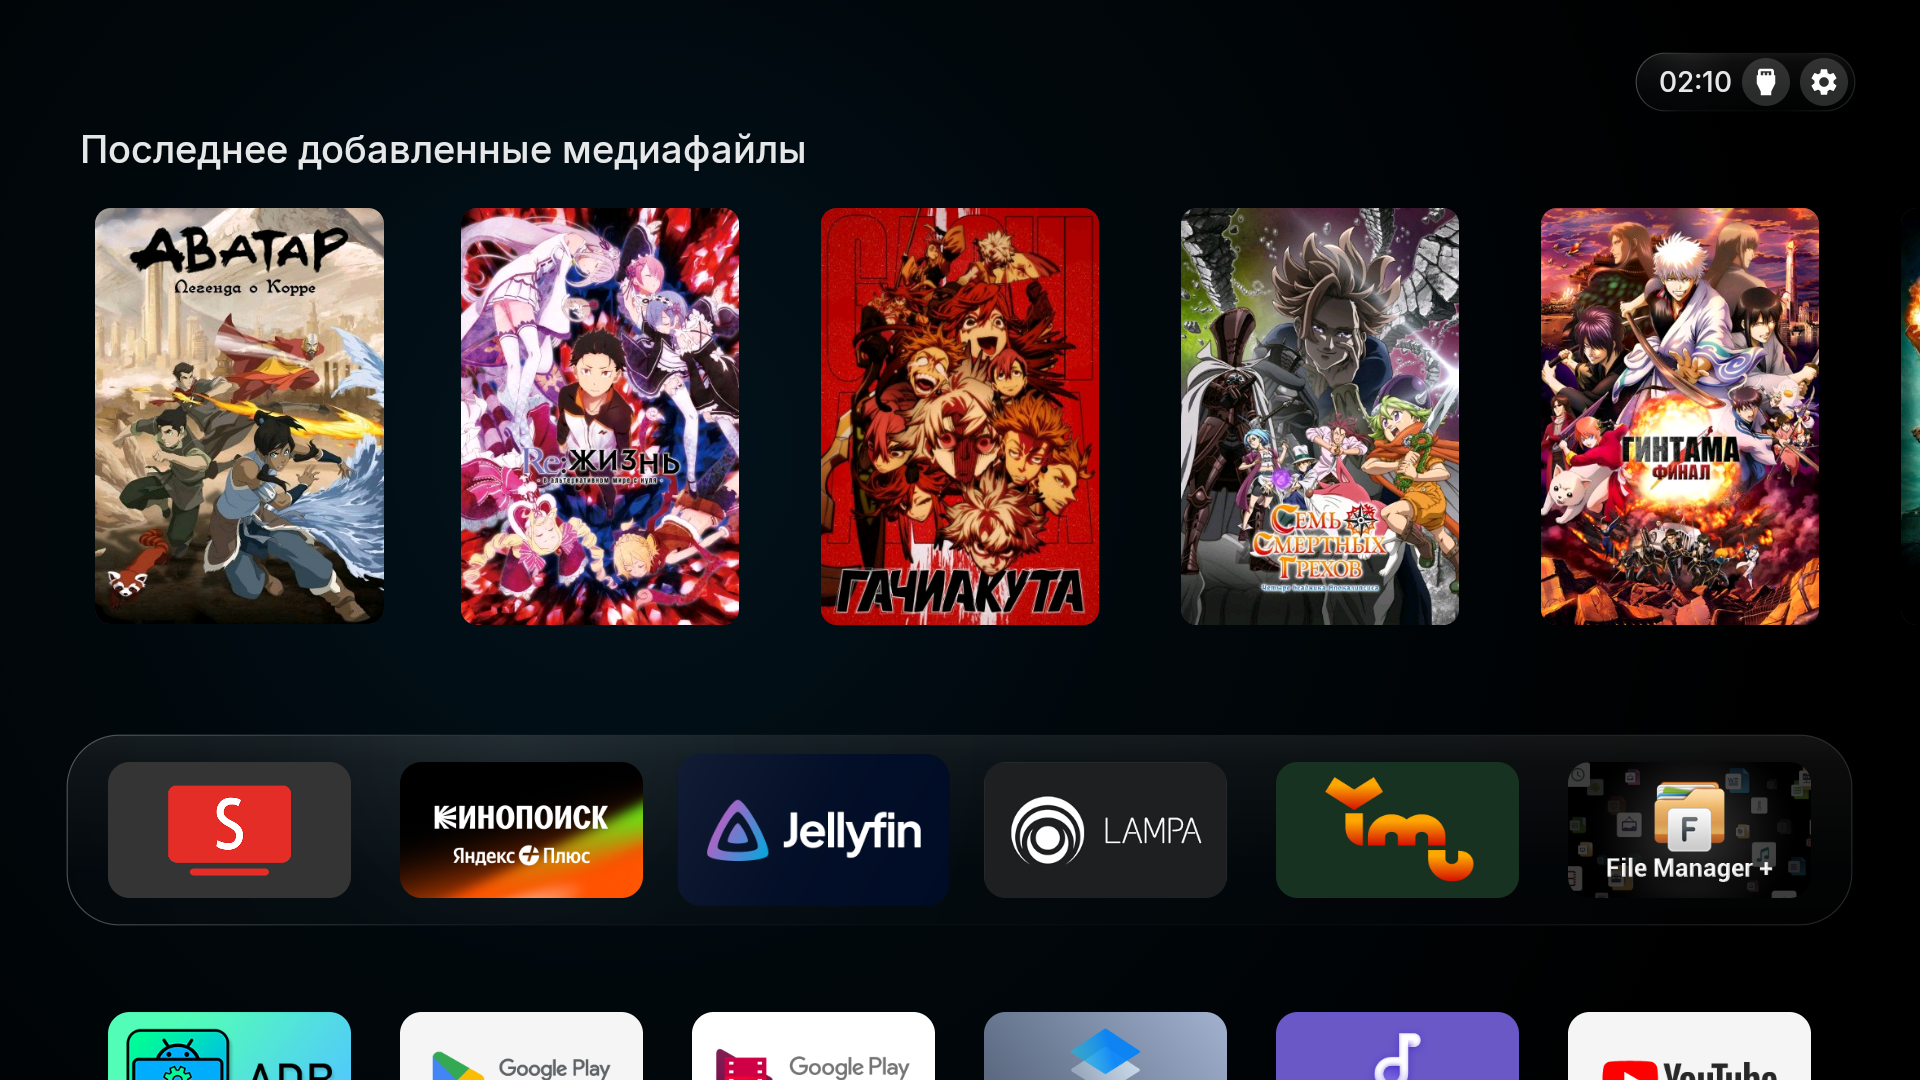
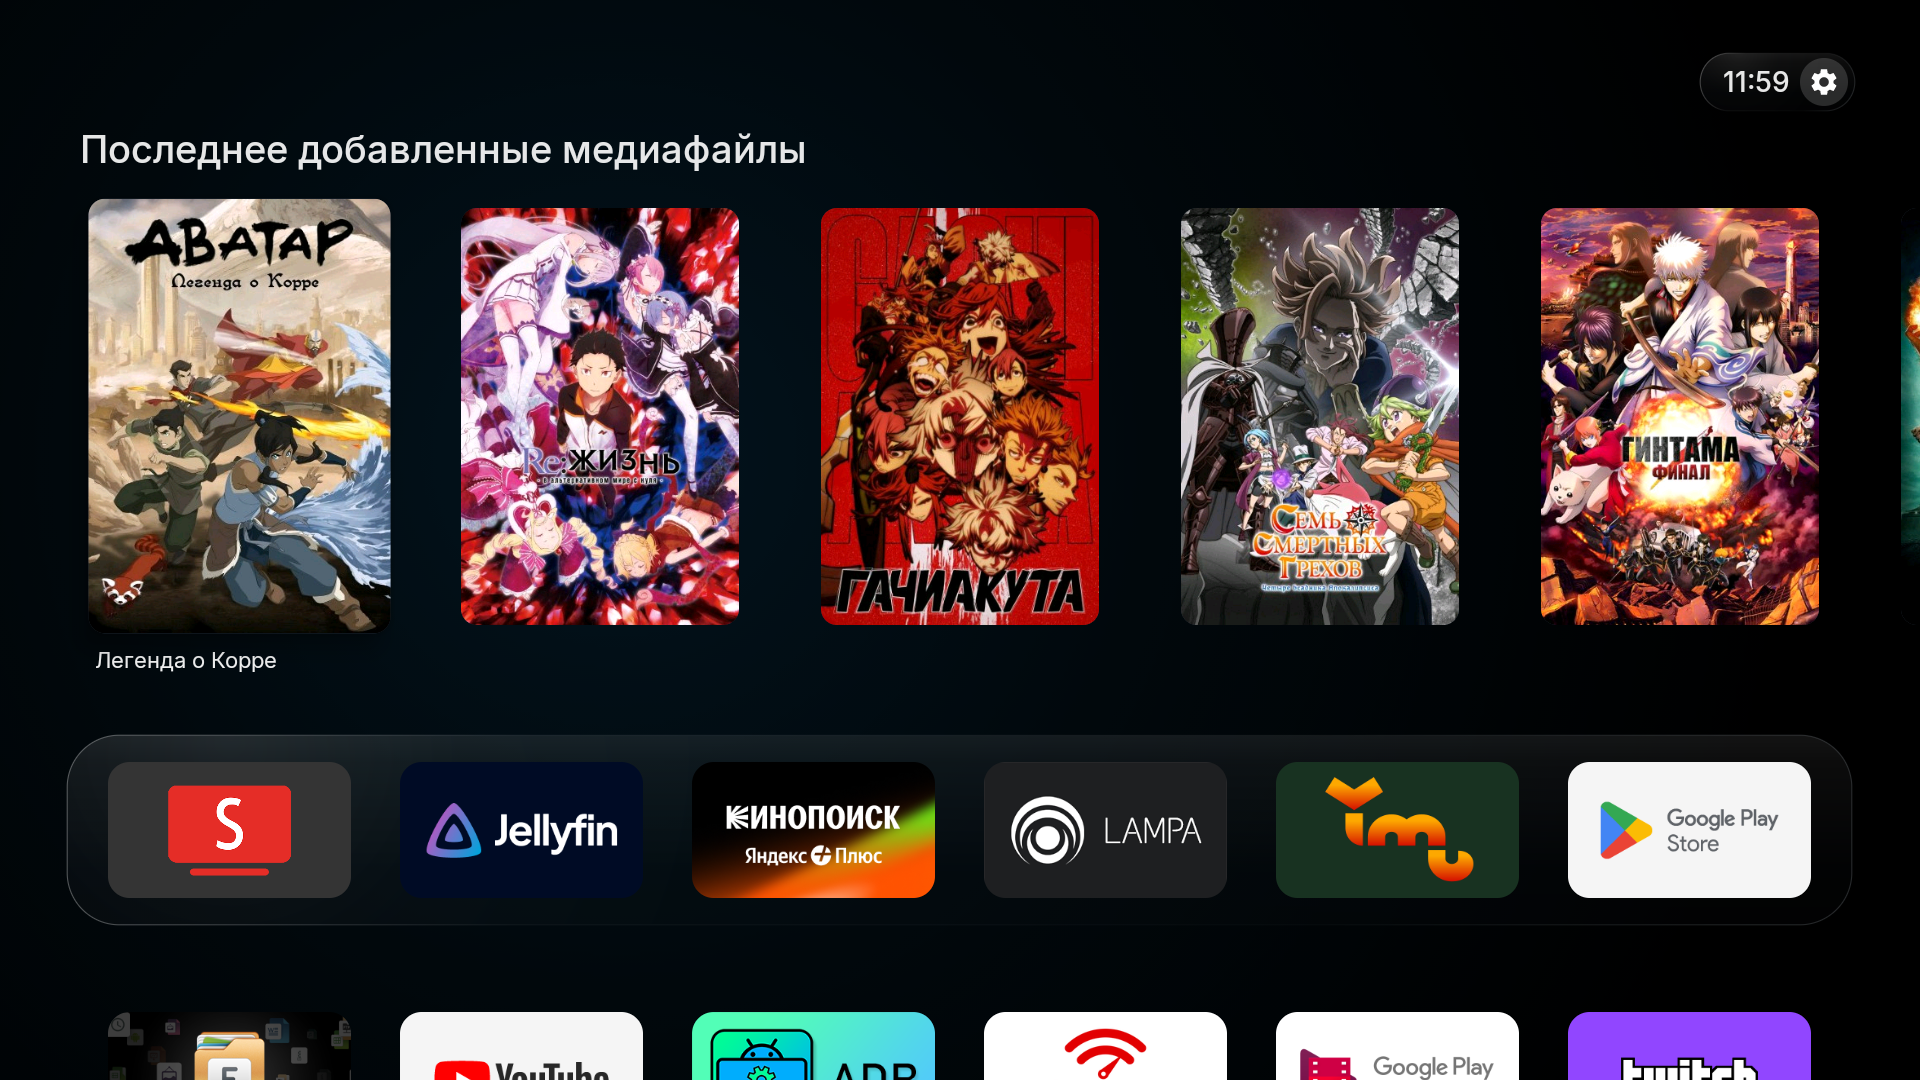
Fix clipping of focused poster above shelf content

diff --git a/launcher/app/src/main/java/com/gathin/tvhome/TopShelf.java b/launcher/app/src/main/java/com/gathin/tvhome/TopShelf.java
@@ -111,6 +111,9 @@ final class TopShelf {
         panel.addView(heading);
         scroll = new HorizontalScrollView(activity);
         scroll.setHorizontalScrollBarEnabled(false); scroll.setClipToPadding(false);
+        // Focus zoom extends above the inner cards row into the scroll view's existing padding.
+        // Do not clip to that child's bounds; the root still clips at the physical screen edges.
+        scroll.setClipChildren(false);
         scroll.setOverScrollMode(View.OVER_SCROLL_NEVER);
         scroll.setHorizontalFadingEdgeEnabled(false);
         scroll.setPadding(0, dp(8), 0, dp(8));
